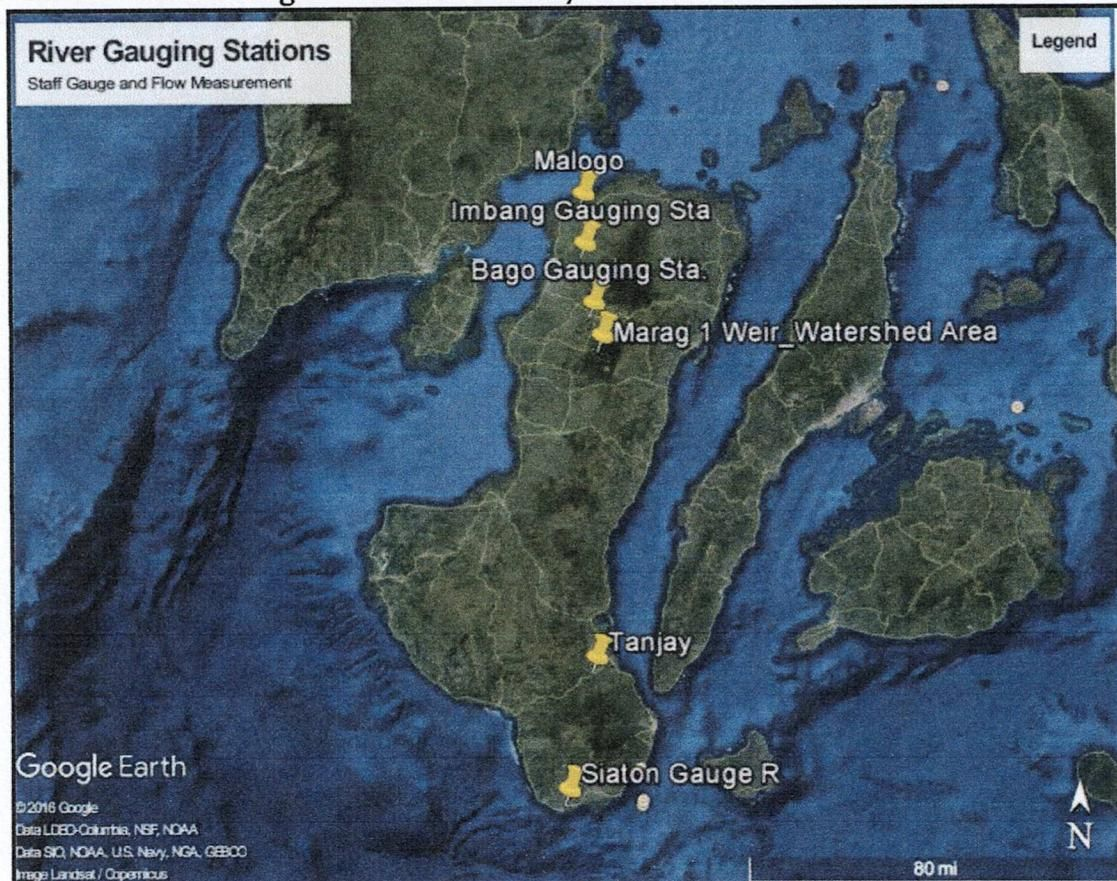
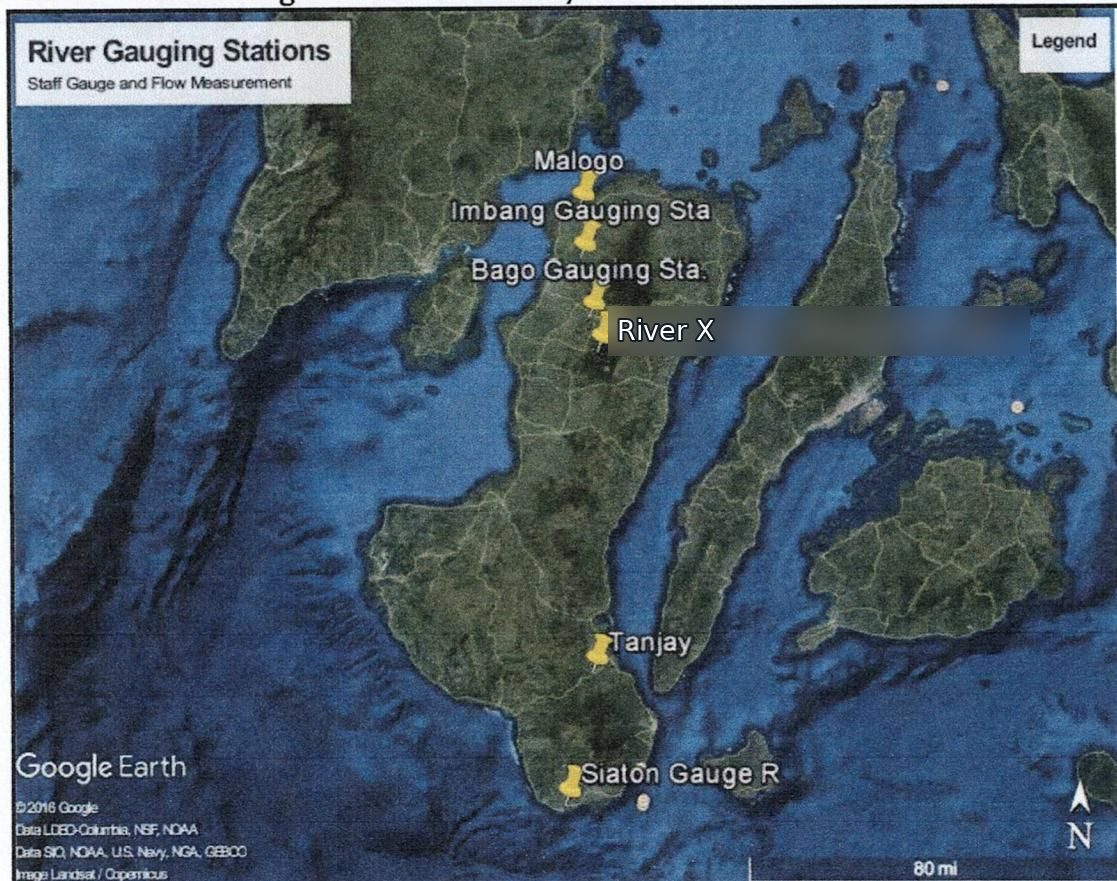
Lecture deck: anonymise the case-study project (Project X / River X)

Changed region(s): [[0.5175, 0.3371, 0.9132, 0.4291]]

diff --git a/lecture.html b/lecture.html
@@ -622,11 +622,11 @@ rho = [999.84 999.70 998.21 995.65];</pre></div>
 <section class="slide" data-part="Case study · The project">
 <div class="inner">
   <div class="tag">Case study · A real engineering problem</div>
-  <h2>Maragandang 2 Mini-Hydro Power Project</h2>
+  <h2>Project X Mini-Hydro Power Project</h2>
   <div class="cols">
-    <figure class="map"><img src="lecture-img/location.jpg" alt="Map of the Philippines with the project site marked in Negros Occidental"><figcaption><b>Project site</b>: Brgy. Mailum, Bago City, Negros Occidental</figcaption></figure>
+    <figure class="map"><img src="lecture-img/location.jpg" alt="Map of the Philippines with the project site marked in Negros Occidental"><figcaption><b>Project site</b>: Negros Occidental</figcaption></figure>
     <div>
-      <p>A small hydroelectric plant is proposed on the <strong>Maragandang River</strong>, high on the slopes of Canlaon Volcano.</p>
+      <p>A small hydroelectric plant is proposed on <strong>River X</strong>, high on the slopes of Canlaon Volcano.</p>
       <p class="step">Before anyone builds it, a <strong>feasibility study</strong> must answer one question: <em>how big a power plant can this river support?</em></p>
       <div class="key step"><p>You are the <strong>hydrology engineer</strong> on that study. Over three chapters you will use today's three methods on the project's real data to answer it.</p></div>
       <p class="hint step">All data in this case study come from the project's feasibility study.</p>
@@ -675,7 +675,7 @@ rho = [999.84 999.70 998.21 995.65];</pre></div>
   <div class="tag">Case study · Measuring a river</div>
   <h2>We need years of flow data, and we don't have them</h2>
   <div class="cols">
-    <figure class="map step"><img src="lecture-img/gauges.jpg" alt="Map of Negros Island showing river gauging stations, including Imbang, Bago and the Maragandang weir"><figcaption><b>River gauging stations on Negros Island.</b> "Marag 1 Weir" marks the project's river.</figcaption></figure>
+    <figure class="map step"><img src="lecture-img/gauges.jpg" alt="Map of Negros Island showing river gauging stations, including Imbang, Bago and River X"><figcaption><b>River gauging stations on Negros Island.</b> "River X" marks the project's river.</figcaption></figure>
     <div>
       <p>A <strong>gauging station</strong> measures a river in two ways:</p>
       <ul>
@@ -683,7 +683,7 @@ rho = [999.84 999.70 998.21 995.65];</pre></div>
         <li class="step"><strong>A few times a year</strong>: a field crew measures the actual flow $Q$ (water speed × cross-section area).</li>
         <li class="step">A <strong>rating curve</strong> $Q(H)$ is fitted to those measurements, then used to turn every daily height into a daily flow.</li>
       </ul>
-      <div class="key step"><p>Maragandang's own gauge only started in December 2016: far too short. The study must <strong>borrow the long record of a nearby gauged river</strong>, scaled down to Maragandang's smaller watershed (about 10 km²).</p></div>
+      <div class="key step"><p>River X's own gauge only started in December 2016: far too short. The study must <strong>borrow the long record of a nearby gauged river</strong>, scaled down to River X's smaller watershed (about 10 km²).</p></div>
     </div>
   </div>
 </div>
@@ -779,7 +779,7 @@ rho = [999.84 999.70 998.21 995.65];</pre></div>
 </div>
 <aside class="notes"><ul>
   <li>Solution of the 3×3: a₀ = 57.880, a₁ = −70.084, a₂ = 21.739. Verified independently in Python (numpy.polyfit).</li>
-  <li>Compare S_y/x: Bago's typical miss (12 m³/s) is about 18 times the whole Maragandang design flow.</li>
+  <li>Compare S_y/x: Bago's typical miss (12 m³/s) is about 18 times the whole Project X design flow.</li>
   <li>The study reports R² ≈ 0.95 (Imbang) and ≈ 0.50 (Bago) for its power-curve fits; our polynomial numbers differ but point the same way.</li>
   <li>Ask who guessed Bago earlier. Closer is not better if the data can't be trusted.</li>
 </ul></aside>
@@ -998,7 +998,7 @@ s = [0 11 40 87 150 228];</pre></div>
 <!-- ============ CASE STUDY · CHAPTER 2 ============ -->
 <section class="slide" data-part="Case study · Ch. 2 · Differentiation">
 <div class="inner">
-  <div class="tag">Case study · Maragandang 2 · Chapter 2 of 3</div>
+  <div class="tag">Case study · Project X · Chapter 2 of 3</div>
   <h2>How careful must the gauge reader be?</h2>
   <div class="cols">
     <div>
@@ -1011,7 +1011,7 @@ s = [0 11 40 87 150 228];</pre></div>
       <ol>
         <li>Using the Imbang curve from Chapter 1, $Q=21.739H^2-70.084H+57.880$, estimate $dQ/dH$ at a normal stage $H=1.7$ m and a flood stage $H=3.0$ m.</li>
         <li>Use forward, backward and central differences with $h=0.05$ m.</li>
-        <li>Estimate the flow error from a 1 cm misread at each stage. For scale, the Maragandang turbine will be designed for about 0.67 m³/s (you'll see why in Chapter 3).</li>
+        <li>Estimate the flow error from a 1 cm misread at each stage. For scale, the Project X turbine will be designed for about 0.67 m³/s (you'll see why in Chapter 3).</li>
       </ol>
     </div>
   </div>
@@ -1055,7 +1055,7 @@ s = [0 11 40 87 150 228];</pre></div>
   <li>Reveal the two value rows, then ask the class to compute forward/backward/central before showing the slope table.</li>
   <li>Forward and backward bracket the central value, the same pattern as the ln x example.</li>
   <li>Why central is exact here: for a quadratic the h² error term of the central formula is multiplied by the third derivative, which is zero.</li>
-  <li>The 90% figure compares an Imbang flow error with Maragandang's design flow; it's a scale comparison, not the same river.</li>
+  <li>The 90% figure compares an Imbang flow error with Project X's design flow; it's a scale comparison, not the same river.</li>
 </ul></aside>
 </section>
 
@@ -1252,10 +1252,10 @@ h/2*(f(1) + 2*<span class="fn">sum</span>(f(2:end-1)) + f(end))</pre><pre class=
   <div class="tag">Case study · Chapter 3 of 3 · Integration</div>
   <h2>How big should the plant be? First, read the river</h2>
   <div class="demo wide-ctl">
-    <div class="plots"><div class="plot"><canvas id="cvFdcRead" aria-label="Flow duration curve of Maragandang River with two readings marked"></canvas></div>
-      <div class="legend"><span><i style="background:var(--ink)"></i>Maragandang flow duration curve</span><span><i style="background:var(--c2)"></i>example readings</span></div></div>
+    <div class="plots"><div class="plot"><canvas id="cvFdcRead" aria-label="Flow duration curve of River X with two readings marked"></canvas></div>
+      <div class="legend"><span><i style="background:var(--ink)"></i>River X flow duration curve</span><span><i style="background:var(--c2)"></i>example readings</span></div></div>
     <div class="ctl">
-      <p>The borrowed record, scaled to Maragandang, is summarised as a <strong>flow duration curve</strong>:</p>
+      <p>The borrowed record, scaled to River X, is summarised as a <strong>flow duration curve</strong>:</p>
       <ol>
         <li class="step">Take every daily flow in the record.</li>
         <li class="step">Sort them from highest to lowest.</li>
@@ -1270,7 +1270,7 @@ h/2*(f(1) + 2*<span class="fn">sum</span>(f(2:end-1)) + f(end))</pre><pre class=
   <li>This is the most important new idea in Chapter 3; spend time here.</li>
   <li>It throws away dates and keeps only "how often". For sizing a plant, how often a flow occurs matters more than when.</li>
   <li>Ask: what does the 100% point (0.11 m³/s) mean? The flow the river never dropped below in the record.</li>
-  <li>The curve is Imbang's record scaled per km² of watershed down to Maragandang's 10 km².</li>
+  <li>The curve is Imbang's record scaled per km² of watershed down to River X's 10 km².</li>
 </ul></aside>
 </section>
 
@@ -1280,7 +1280,7 @@ h/2*(f(1) + 2*<span class="fn">sum</span>(f(2:end-1)) + f(end))</pre><pre class=
   <h2>Size the turbine from the curve</h2>
   <div class="cols">
     <div>
-      <p class="small">Maragandang flow duration curve: $Q$ (m³/s) reached or exceeded on the given % of days.</p>
+      <p class="small">River X flow duration curve: $Q$ (m³/s) reached or exceeded on the given % of days.</p>
       <div class="tw"><table>
         <tr><th>% days</th><td>0</td><td>2</td><td>5</td><td>8</td><td>10</td><td>12</td><td>14</td><td>16</td><td>17</td><td>18</td><td>19</td><td>20</td></tr>
         <tr><th>Q</th><td>1.90</td><td>1.45</td><td>1.15</td><td>0.95</td><td>0.85</td><td>0.78</td><td>0.74</td><td>0.71</td><td>0.70</td><td>0.68</td><td>0.67</td><td>0.65</td></tr>
@@ -1748,7 +1748,7 @@ $("trPlay").addEventListener("click", () => {
   trTimer = setInterval(() => { N++; $("trN").value = N; drawTr(); if (N >= 16) clearInterval(trTimer); }, 450);
 });
 
-/* ---------- case study: Maragandang 2 (data from the feasibility study, Ch. 5) ---------- */
+/* ---------- case study: Project X (data from the project's feasibility study) ---------- */
 const RIVERS = {
   imbang: { H: [1.3, 1.35, 1.45, 1.52, 1.55, 1.58, 1.61, 1.68, 1.71, 1.73, 1.82, 1.85, 2.10, 3.05, 3.10, 3.10, 3.30, 3.60],
             Q: [0.7, 0.9, 1.2, 2.5, 1.6, 2.0, 1.4, 2.6, 3.3, 2.5, 2.3, 2.4, 11.8, 44.0, 42.5, 50.8, 60.5, 93.6],
